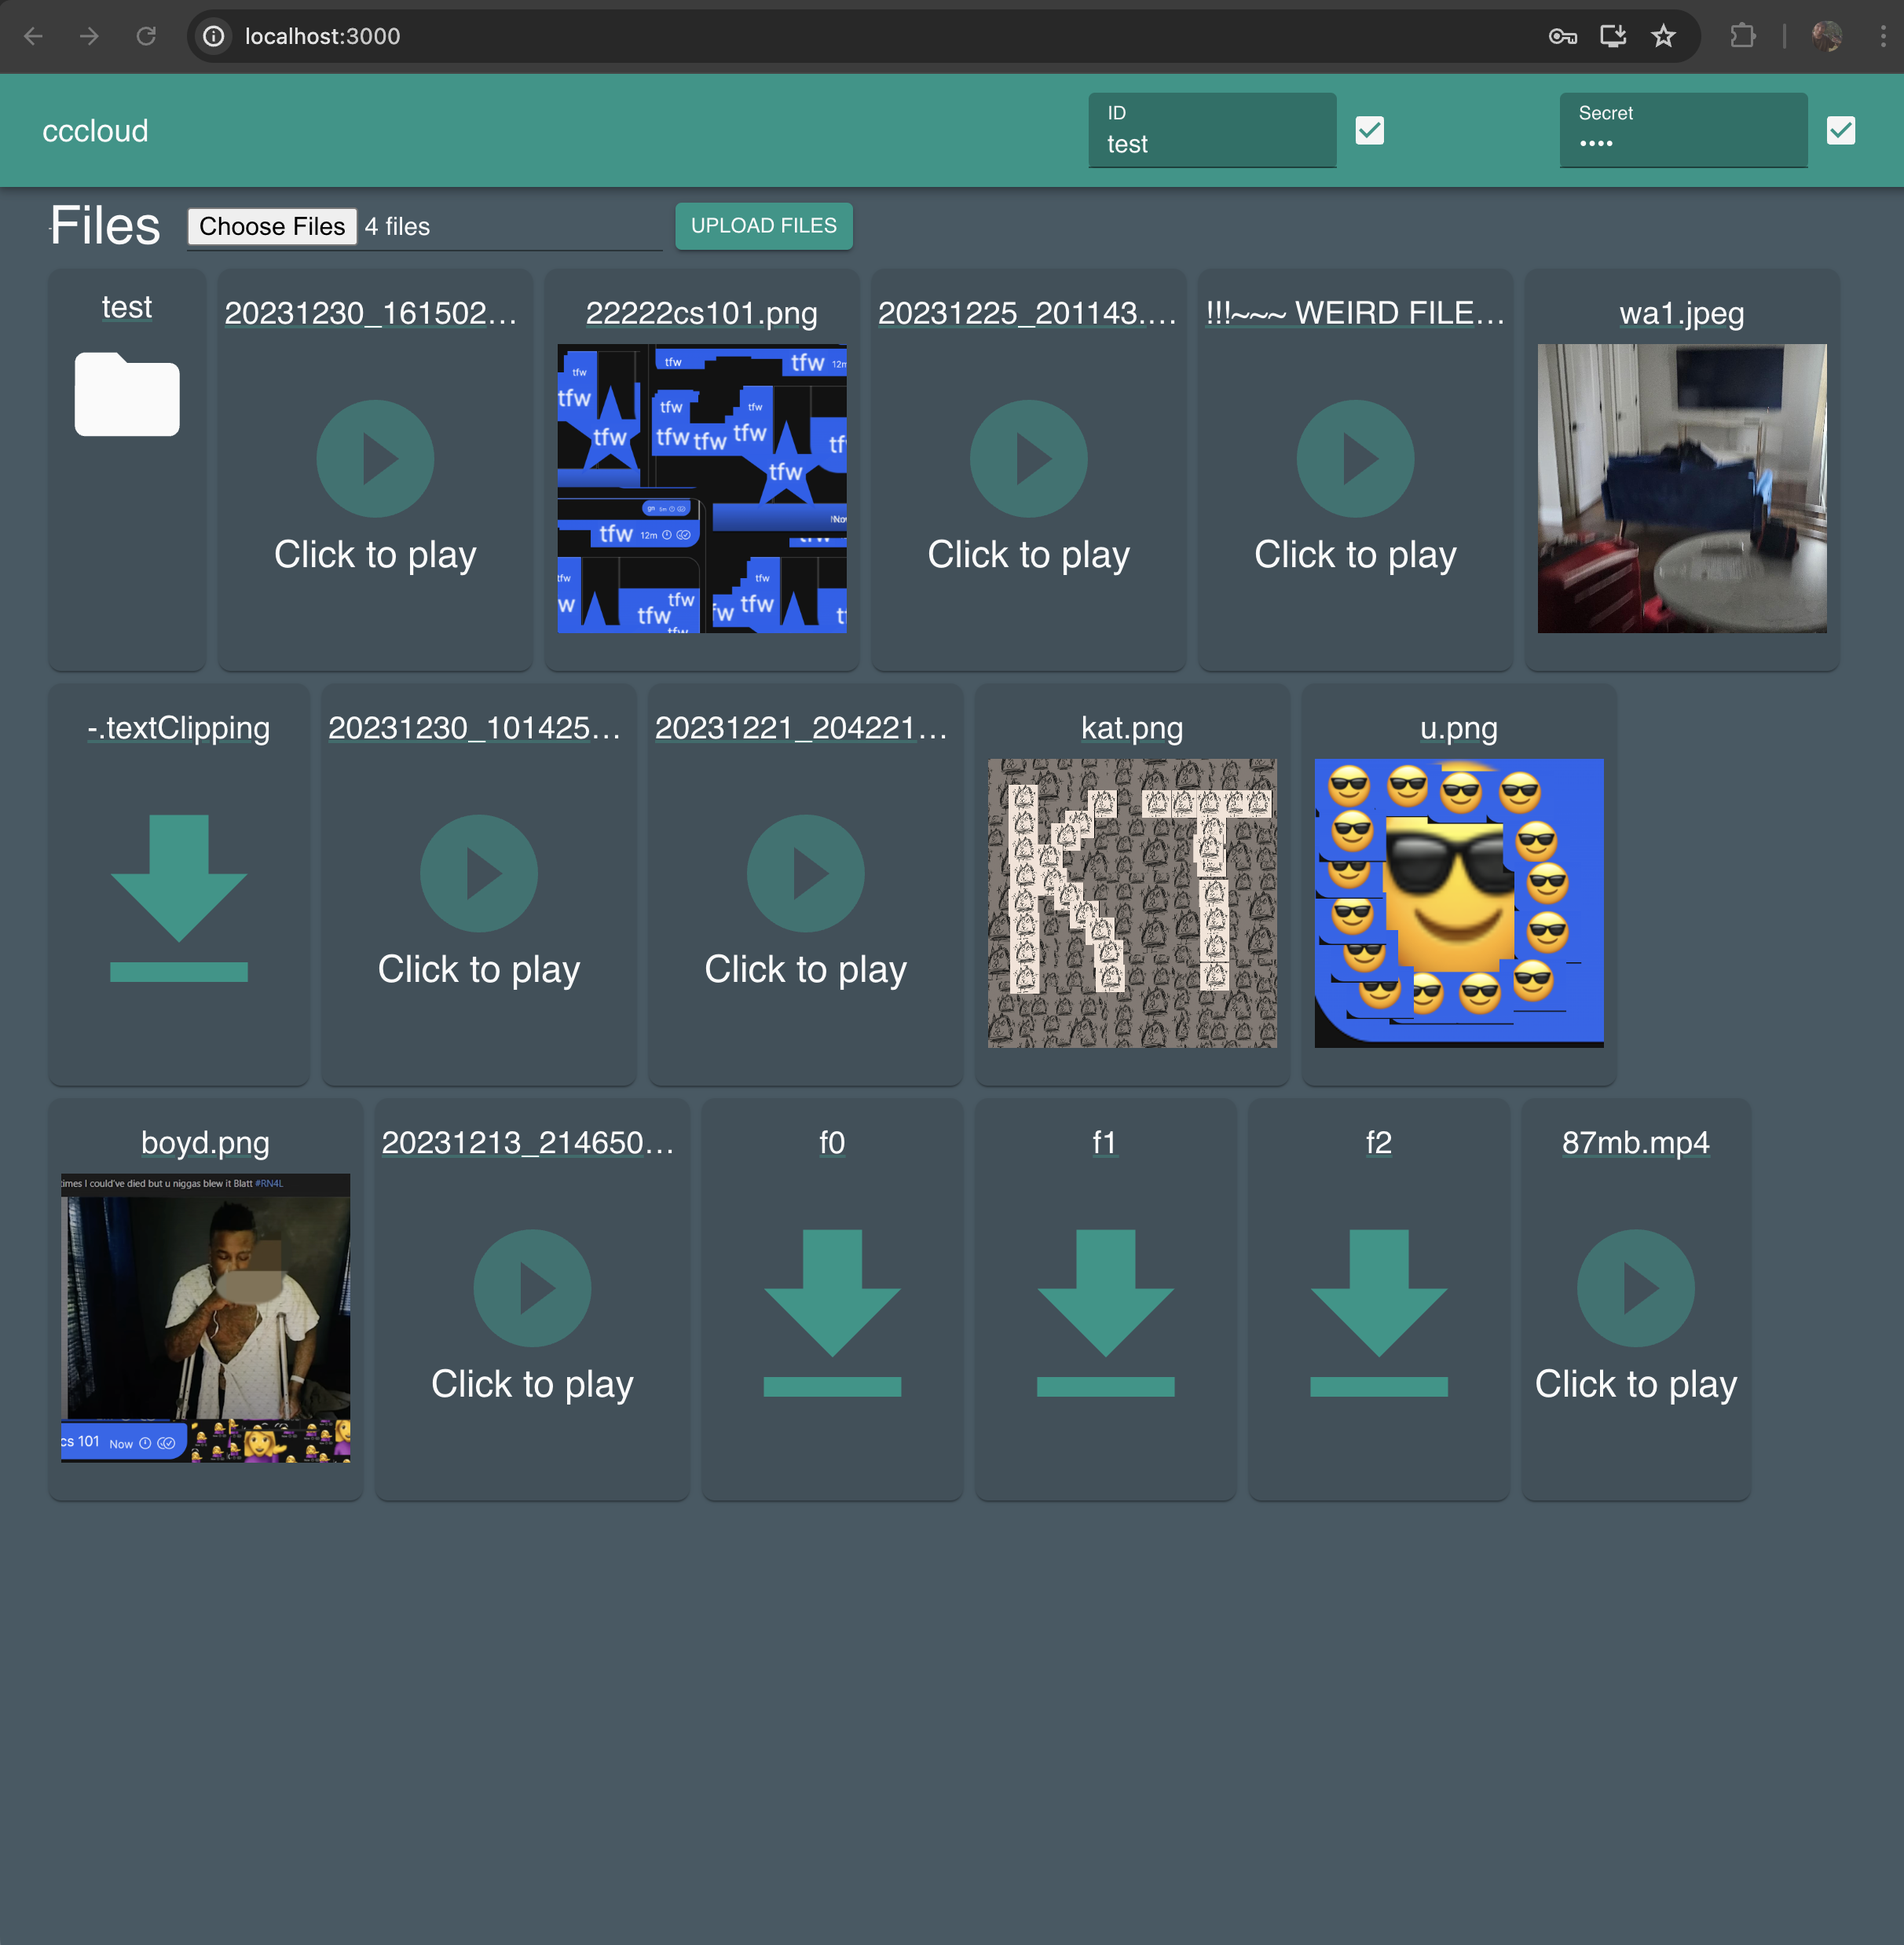
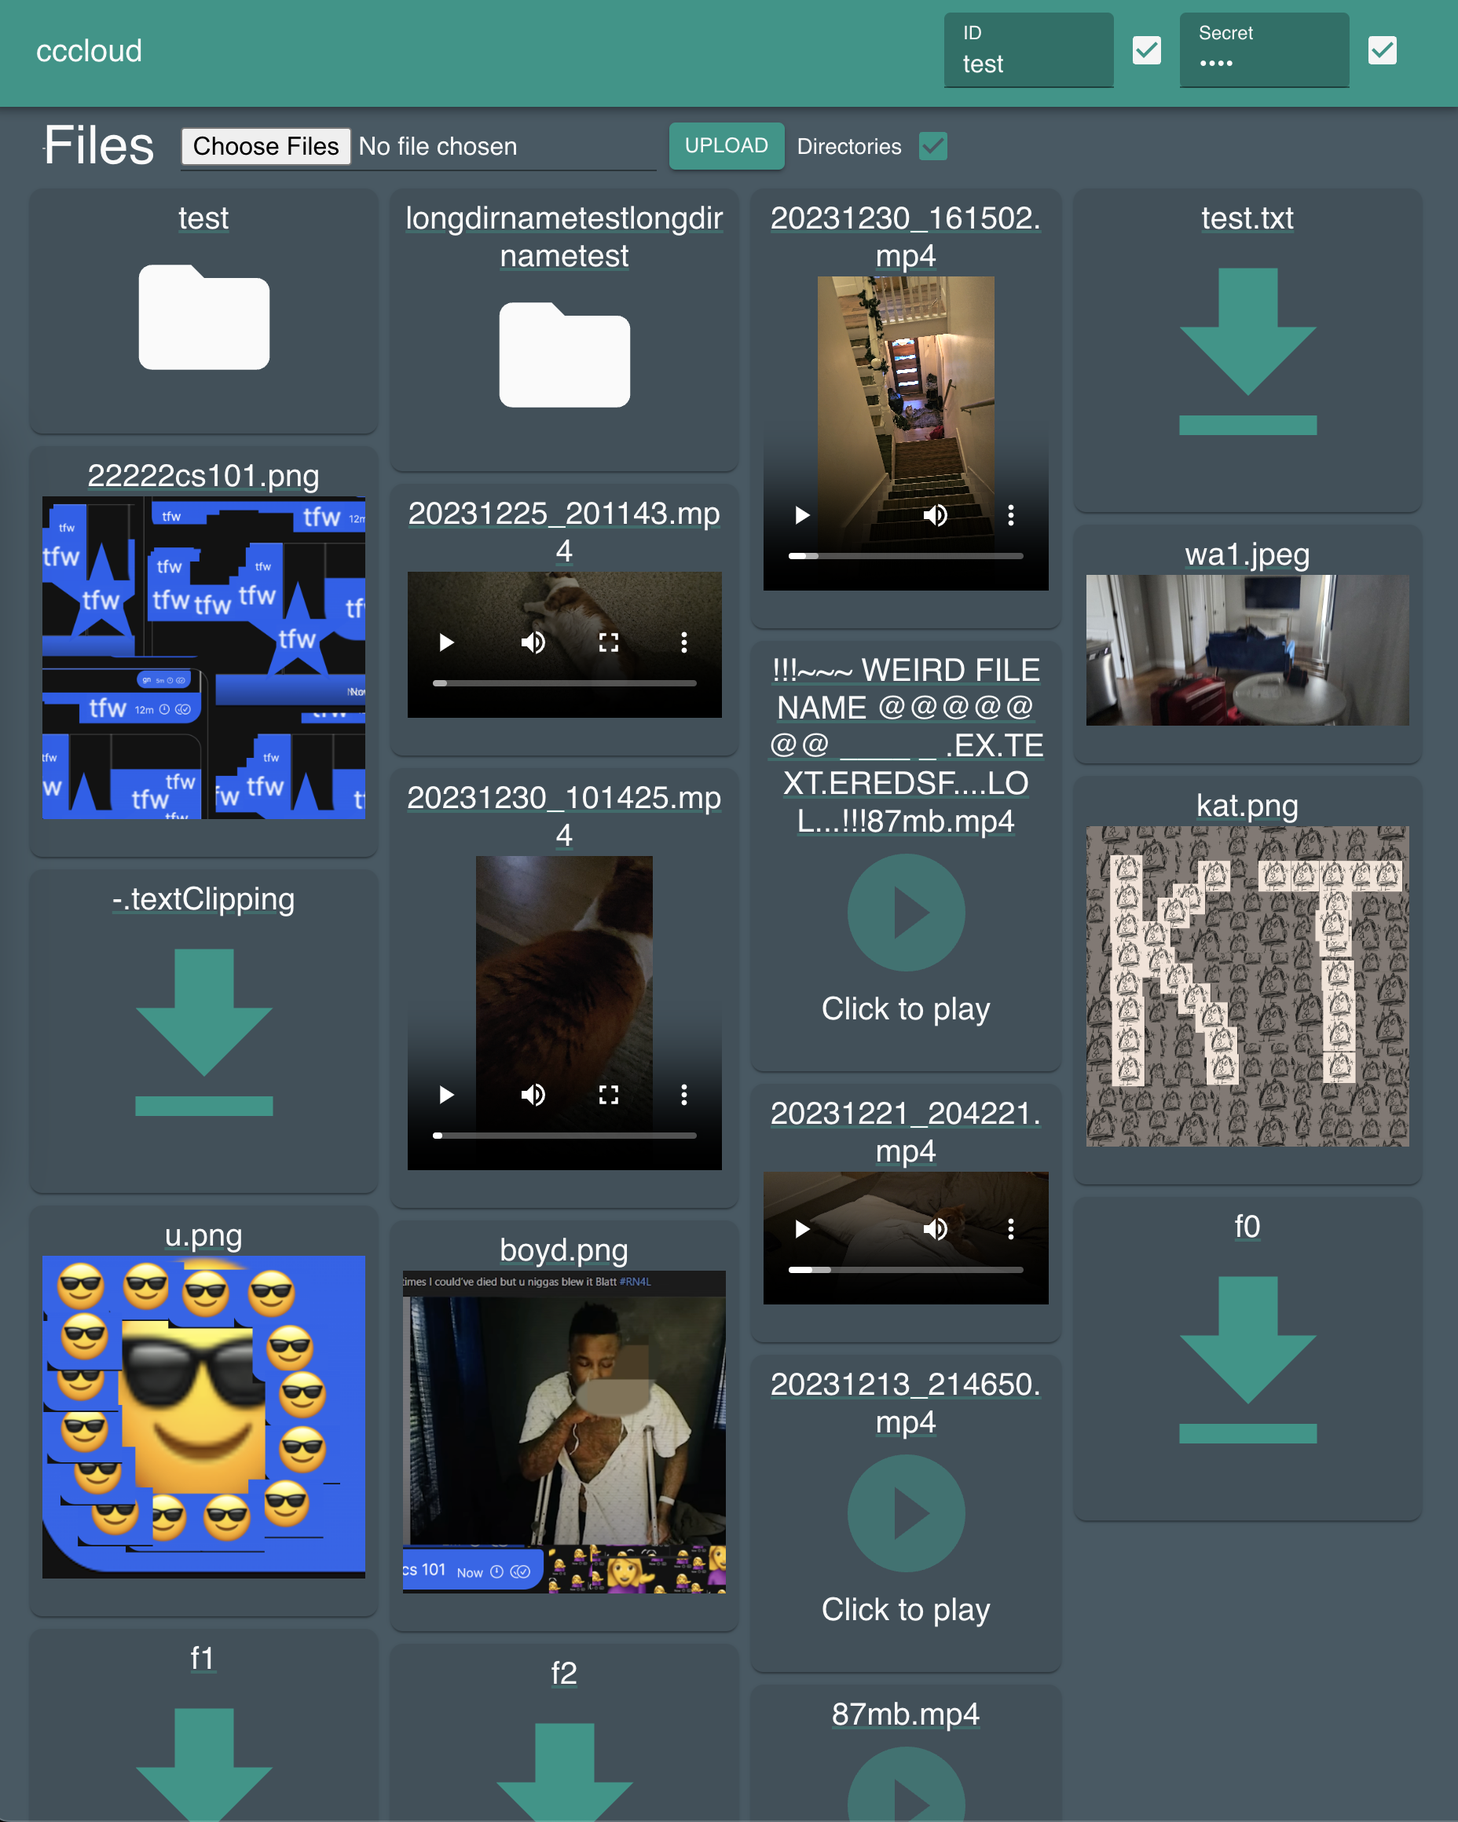
2 FILE(s) | frontend/src/UserFiles/index.tsx preview.png

diff --git a/frontend/src/UserFiles/index.tsx b/frontend/src/UserFiles/index.tsx
@@ -98,7 +98,9 @@ const UserFiles = ({
   };
 
   const handleFileClick = (file: EncFile) => {
-    window.location.href = `http://localhost:8000/files/${cccId}/dl/${file.relpath}?secret=${secret}`;
+    if (!file.relpath.toLowerCase().endsWith('.mp4')) {
+      window.location.href = `http://localhost:8000/files/${cccId}/dl/${file.relpath}?secret=${secret}`;
+    }
   };
 
   if (!files.length) {
